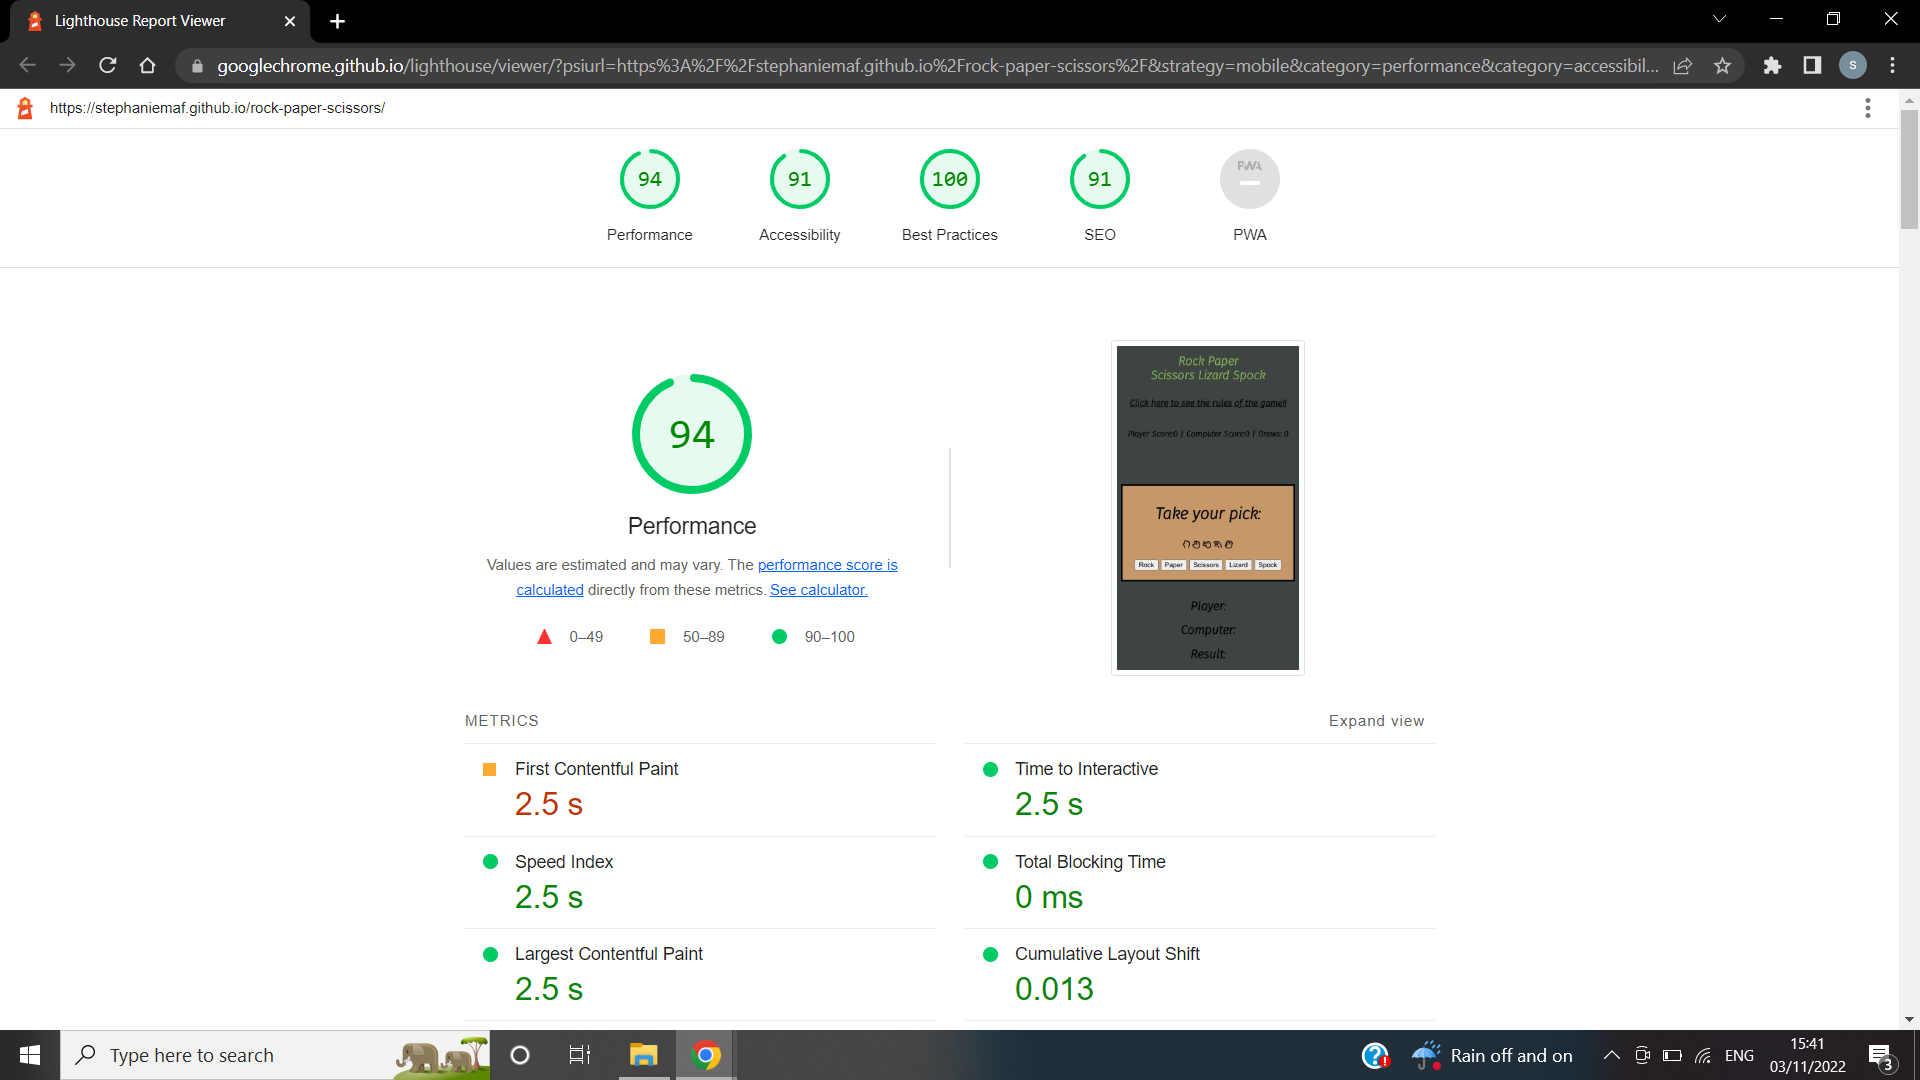
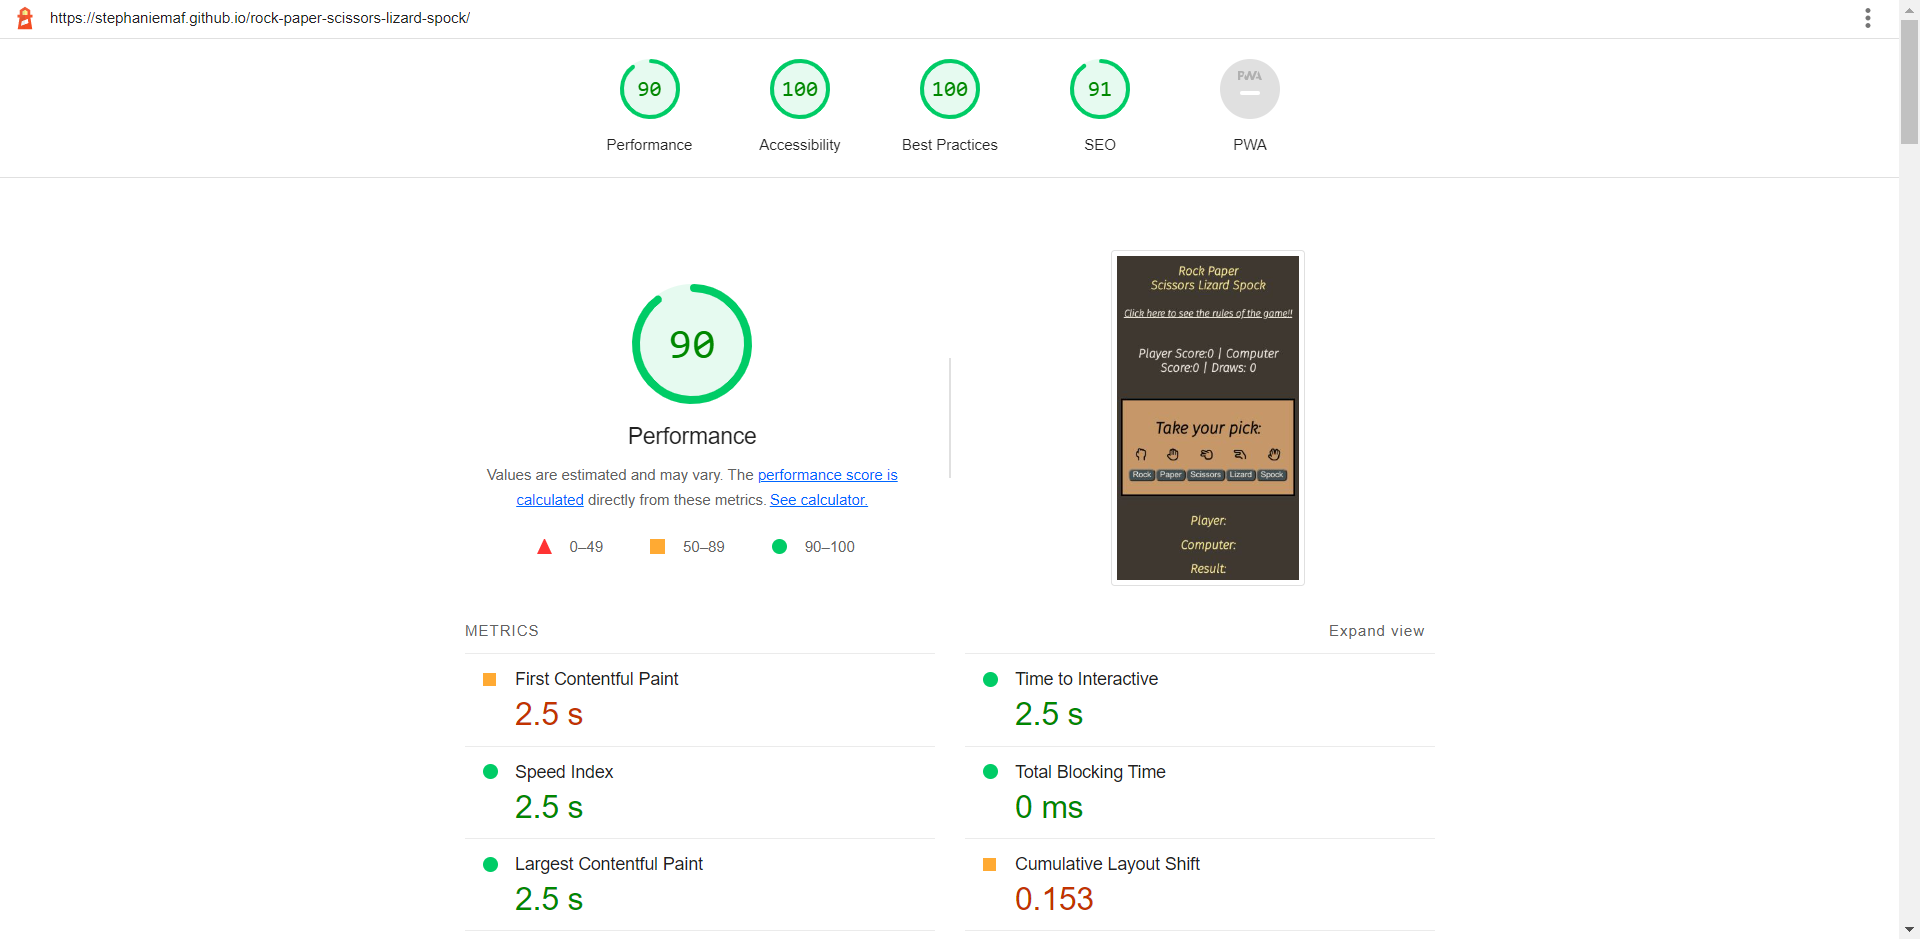
added new images to readme and added new link to live site

diff --git a/index.html b/index.html
@@ -4,8 +4,7 @@
     <meta charset="UTF-8">
     <meta http-equiv="X-UA-Compatible" content="IE=edge">
     <meta name="viewport" content="width=device-width, initial-scale=1.0">
-    <meta name="theme-color" content="#3E3732">
-    <meta name="discription" content="game-of-rock-paper-scissors-lizard-spock">
+    <meta name="description" content="game-of-rock-paper-scissors-lizard-spock">
     <link rel="stylesheet" href="assets/css/style.css">
     <title>Rock Paper Scissors Lizard Spock</title>
 </head>

diff --git a/README.md b/README.md
@@ -1,7 +1,7 @@
 # Rock, Paper, Scissors, Lizard, Spock.
 This is a game of chance. Its an updated more difficult version then the original game of Rock,Paper,Scissors. Used by many as a fair choosing method between two people, similar to flipping a coin. It can help settle a dispute or make a group decision. This updated version of the game was first made famous by the popular Tv sitcom - Big Bang Theory.
 When you play this game you are playing against a computer. The computer chooses its play randomly which gives a fair result for the human player.Users of this game will learn the complex rules of Rock, Paper, Scissors, Lizard, Spock. This game was created with Adults and Children in mind.
-![AmiResponsiveImage](/assets/readme_images/amiresp.png)
+![AmiResponsiveImage](/assets/readme_images/amiresponsive.png)
 
 # Features
 ## Existing features:
@@ -10,7 +10,7 @@ When you play this game you are playing against a computer. The computer chooses
 
 * Link 
     * There is a link placed under the header that the user can click to view a complete list of rules for the game.
-    ![score and link](assets/readme_images/score.png)
+    ![score and link](assets/readme_images/link_score.png)
 * Score Tracker
     * Under the link there is a score tracker to keep track of player wins, computer wins or draws. This allows users to keep a count of how they are doing against the computer.
 
@@ -20,12 +20,13 @@ When you play this game you are playing against a computer. The computer chooses
 
 * Results
     * Under the body of the game there is the results window. Here the player can see the choice they have chosen and also the computer. Then it also shows the outcome of the game and it will tell the user if they have won or lost. The score tracker will then be updated with the result.
-    ![result](assets/readme_images/results.png)
+    ![result](assets/readme_images/results_area.png)
 
 # Testing
 * I tested the game in different browsers: Chrome, ios safari, and Firefox
 * I confirmed that the results are always correct
 * I confirmed the fonts and colors are easy to read by running it threw Lighthouse
+![lighthouse](assets/readme_images/lighthouse.png)
 
 # Bugs
 * When creating the game none of my buttons would work, changing document.getElementById to querySelectorAll fixed the issue
@@ -47,7 +48,7 @@ When you play this game you are playing against a computer. The computer chooses
     * From the source section drop-down menu, select the Master Branch
     * Once the master branch has been selected, the page will be automatically refreshed with a detailed ribbon display to indicate the successful deployment.
 
-The Live link to site is here -
+The Live link to site is here - [Game-Link](https://stephaniemaf.github.io/rock-paper-scissors-lizard-spock/)
 
 # Credits 
 * Code for my JavaScript button event listener and variables was taken from [github](https://github.com/kubowania/rock-paper-scissors-x3/blob/main/rock-paper-scissors-examples/rock-paper-scissors-example-1/app.js)
